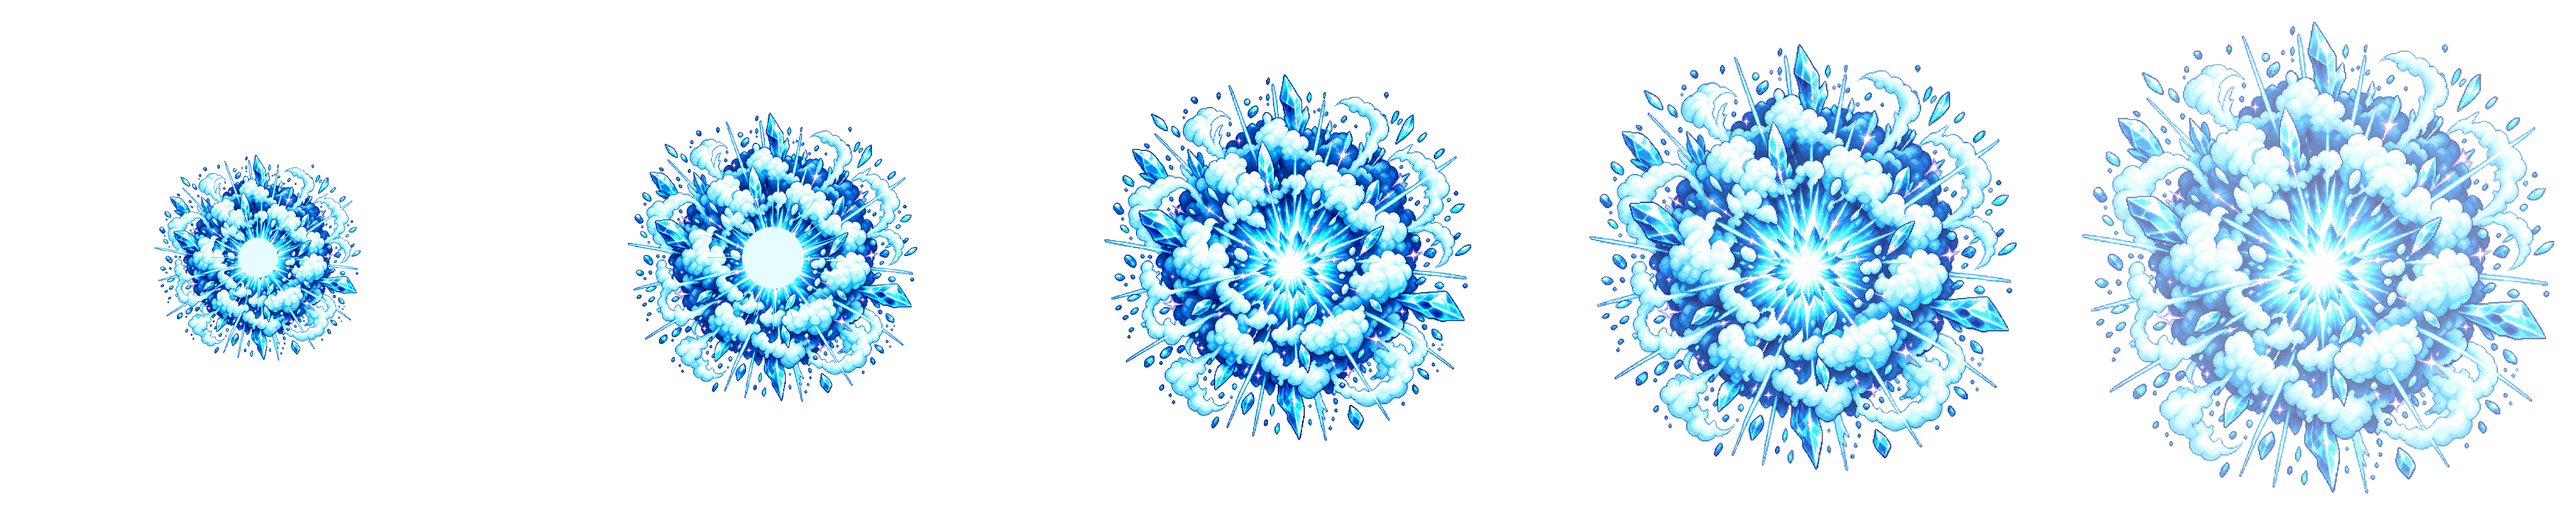
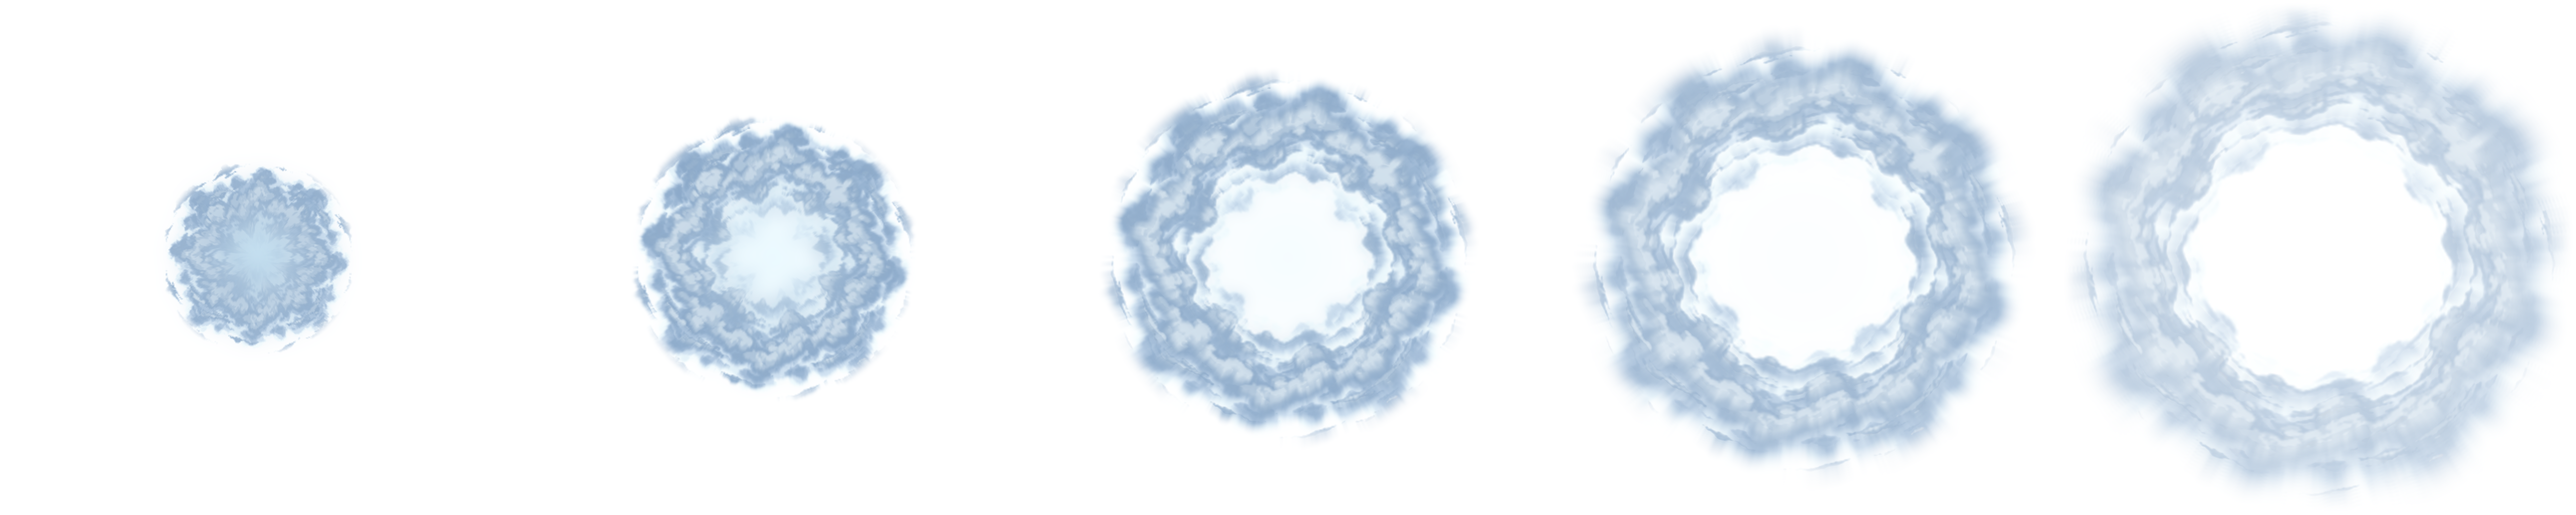
Frost planetfall: soft painted cloud decks (bright + dark, seamless both ways) and a painted punch-through burst built from one painting; sources and scripts in descent/src~/soft_redraw

diff --git a/Pause/Assets/Art/Worlds/Frost/descent/src~/soft_redraw/efin.py b/Pause/Assets/Art/Worlds/Frost/descent/src~/soft_redraw/efin.py
@@ -1,0 +1,99 @@
+# Frost planetfall entry: raw paintings -> install-size candidates.
+#  decks: 2048x1024 opaque RGBA, periodic in X and Y (wrap Repeat both ways), soft (true-res downsample + smooth upscale + blur)
+#  breakthrough: 5 cells of 1024x1024 (5120x1024), straight alpha, built from ONE painting by scripted expansion
+import sys, os, json
+sys.path.insert(0,'/private/tmp/claude-501/-Users-sina-Developer/50b8c9d7-da6c-44fe-8c92-736a84a1fed0/scratchpad/pl')
+import numpy as np
+from PIL import Image
+from scipy import ndimage
+from wxfin import arr, img, premul, unpremul, resize, smooth, ice
+from wxkey import key
+O='out2/bd_frost_entry_'
+def soft_rgb(rgb, W, H, nat, sigma):
+    h,w=rgb.shape[:2]
+    a=np.dstack([rgb,np.ones((h,w))])
+    a=resize(a,max(8,int(w*nat)),max(8,int(h*nat)),Image.BOX)        # down to the true drawing resolution
+    a=resize(a,W,H,Image.BICUBIC)                                      # smooth upscale
+    a=np.dstack([ndimage.gaussian_filter(a[...,c],sigma,mode='wrap') for c in range(4)])
+    return a[...,:3]
+def periodic(rgb, edge=.28):
+    """make X/Y periodic: blend with a half-rolled copy near the edges; variance-preserving so the blend zone keeps its contrast"""
+    def ax(a, axis):
+        n=a.shape[axis]; t=np.arange(n); d=np.minimum(t,n-1-t)/(n*edge)
+        w=smooth(0,1,d); w=w.reshape((-1,1,1) if axis==0 else (1,-1,1))
+        b=np.roll(a,n//2,axis)
+        m=a.mean((0,1),keepdims=True)
+        mix=w*a+(1-w)*b; k=np.sqrt(w*w+(1-w)**2)
+        return np.clip(m+(mix-m)/k,0,1)
+    return ax(ax(rgb,1),0)
+def ramp(rgb, stops, tint, red_cap=True):
+    L=(rgb*[.2126,.7152,.0722]).sum(-1); lo,hi=np.percentile(L,[1,99.7]); t=np.clip((L-lo)/max(hi-lo,1e-3),0,1)
+    xs=np.linspace(0,1,len(stops)); S=np.array(stops)/255
+    r=np.dstack([np.interp(t,xs,S[:,c]) for c in range(3)])
+    out=r*tint+rgb*(1-tint)
+    if red_cap: out[...,0]=np.minimum(out[...,0],out[...,2]*.92)
+    return np.clip(out,0,1)
+def level(rgb, target):   # mean of max(r,g,b) -> target (the Frost ceiling test compares against it), by gamma (bisection)
+    lo,hi=0.2,5.0; m=rgb.max(-1)[::3,::3]
+    for _ in range(40):
+        g=(lo*hi)**.5
+        if (m**g).mean()>target: lo=g
+        else: hi=g
+    return rgb**g
+BRIGHT=[(28,52,104),(58,98,158),(112,152,204),(176,206,236),(232,243,255)]
+DARK=[(10,16,34),(24,36,64),(46,62,98),(82,104,146),(150,176,214)]
+def deck(raw, out, stops, target, nat=.5, sigma=1.6, tint=.7, edge=.28):
+    rgb=arr(Image.open(raw))[...,:3]
+    rgb=soft_rgb(rgb,2048,1024,nat,sigma)
+    rgb=periodic(rgb,edge)
+    rgb=ramp(rgb,stops,tint); rgb=level(rgb,target)
+    rgb[...,0]=np.minimum(rgb[...,0],rgb[...,2])
+    a=np.dstack([rgb,np.ones(rgb.shape[:2])]); img(a).save(out)
+    return float(rgb.max(-1).mean())
+# ---------- breakthrough ----------
+def burst_src(raw, nat=.5, sigma=1.0, tint=.6, full=.8, floor=.05, R=500):
+    a=arr(key(Image.open(raw),full=full,floor=floor)); a=ice(a,tint); p=premul(a)
+    h,w=p.shape[:2]; p=resize(p,int(w*nat),int(h*nat),Image.BOX)
+    ys,xs=np.nonzero(p[...,3]>.02); cy,cx=(ys.min()+ys.max())/2,(xs.min()+xs.max())/2
+    rad=max(ys.max()-cy,cy-ys.min(),xs.max()-cx,cx-xs.min())+2
+    k=R/rad; S=int(round(2*rad*k))
+    y0,x0=int(cy-rad),int(cx-rad); pad=np.zeros((int(2*rad)+1,int(2*rad)+1,4))
+    sy0,sx0=max(0,y0),max(0,x0); sub=p[sy0:y0+pad.shape[0],sx0:x0+pad.shape[1]]
+    pad[sy0-y0:sy0-y0+sub.shape[0],sx0-x0:sx0-x0+sub.shape[1]]=sub
+    q=resize(pad,S,S,Image.BICUBIC); q=np.dstack([ndimage.gaussian_filter(q[...,c],sigma) for c in range(4)])
+    c=np.zeros((1024,1024,4)); o=(1024-S)//2; c[o:o+S,o:o+S]=q[:1024-o,:1024-o]
+    return np.clip(c,0,1)   # premultiplied, content radius ~R, centred
+SC=[.40,.58,.74,.87,.97]; HOLE=[0,0,0,0,0]; HK=[.40,.27,.15,.06,0]; FADE=[1,1,.95,.82,.6]; GLOW=[.9,.55,.25,.08,0]; SPIN=[0,3,6,8,10]
+def burst(raw, out, R=500, gamma=1.25, spin=1.0, round_=.84, pinch=True, zoom=0.0, **kw):
+    p=burst_src(raw,R=R,**kw)
+    H=W=1024; c=(H-1)/2; yy,xx=np.mgrid[0:H,0:W].astype(float); dy,dx=yy-c,xx-c
+    r=np.hypot(dy,dx); th=np.arctan2(dy,dx); frames=[]
+    for k in range(5):
+        s=SC[k]
+        # outward blow-out: outer material travels further (radial power warp), slight swirl increasing with radius
+        rn=np.clip(r/(R*s),0,4); rs=R*(HK[k]+(1-HK[k])*rn**gamma)
+        a=th-np.deg2rad(SPIN[k]*spin)*rn
+        sy,sx=c+rs*np.sin(a),c+rs*np.cos(a)
+        f=np.dstack([ndimage.map_coordinates(p[...,i],[sy,sx],order=1,mode='constant') for i in range(4)])
+        f*=(1-smooth(round_,1.0,rs/R))[...,None]   # round the painting's squarish outline
+        if pinch and HK[k]>0:   # soften the radial pinch at the centre
+            bl=np.dstack([ndimage.gaussian_filter(f[...,i],10+30*HK[k]) for i in range(4)]); m=np.exp(-(r/(R*s*(.25+HK[k])))**2)[...,None]; f=f*(1-m)+bl*m
+        hole=smooth(HOLE[k]*.6,HOLE[k]*1.2+1e-3,r/(R*s)) if HOLE[k]>0 else np.ones_like(r)
+        f*= (hole*FADE[k])[...,None]
+        g=np.exp(-(r/(R*s*.42))**2)*GLOW[k]   # bright cold core at the moment of the punch
+        glow=np.dstack([g*.86,g*.96,g*1.0,g])
+        if zoom>0 and k>0:   # radial smear outward: spray flung off the ring
+            acc=f.copy(); n=8; d=zoom*k/4
+            for j in range(1,n+1):
+                q=1-d*j/n; acc+=np.dstack([ndimage.map_coordinates(f[...,i],[c+dy*q,c+dx*q],order=1,mode='constant') for i in range(4)])*(1-j/(n+1))
+            acc/= 1+sum(1-j/(n+1) for j in range(1,n+1)); f=np.maximum(f*.75+acc*.25, acc)
+        f=f+glow*(1-f[...,3:])
+        f*=smooth(0,30,np.minimum.reduce([yy,xx,H-1-yy,W-1-xx]))[...,None]
+        frames.append(unpremul(np.clip(f,0,1)))
+    img(np.concatenate(frames,1)).save(out); return frames
+def gif(frames, out, bg=(40,58,92)):
+    ims=[]
+    for f in frames+[frames[-1]]*2:
+        b=Image.new('RGBA',(1024,1024),bg+(255,)); b.alpha_composite(img(f)); ims.append(b.resize((400,400),Image.LANCZOS).convert('P',palette=Image.ADAPTIVE))
+    ims.append(Image.new('RGBA',(400,400),bg+(255,)).convert('P'))
+    ims[0].save(out,save_all=True,append_images=ims[1:],duration=[83]*7+[400],loop=0)

diff --git a/Pause/Assets/Art/Worlds/Frost/descent/src~/soft_redraw/egen.py b/Pause/Assets/Art/Worlds/Frost/descent/src~/soft_redraw/egen.py
@@ -1,0 +1,43 @@
+# Frost planetfall entry clouds: raw paintings via generate-image-v2 (no style image). raw -> out2/bd_frost_entry_<item>/raw/<tag>.png
+import io, os, sys, base64, time, threading
+sys.path.insert(0,'/private/tmp/claude-501/-Users-sina-Developer/50b8c9d7-da6c-44fe-8c92-736a84a1fed0/scratchpad/pl')
+import plapi
+from PIL import Image
+from concurrent.futures import ThreadPoolExecutor
+LOG=threading.Lock(); COUNT='entry/count.txt'
+TAIL=' Soft painterly style, smooth gradients, soft feathered edges, no outlines, no hard pixel steps, fine detail, cold ice palette: pale blue-white highlights, steel blue shadows, no pink, no purple, no warm colours, no ground, no text, no UI.'
+TOP='Seen from very high altitude looking straight down: '
+BG=' Isolated in the centre on a plain flat solid very dark navy background (#0c1424) with an empty dark margin on every side; nothing touches the image edges.'
+def gen(item, tag, prompt, size):
+    d=f'out2/bd_frost_entry_{item}/raw'; os.makedirs(d,exist_ok=True)
+    if os.path.exists(f'{d}/{tag}.png'): return item, tag, 'skip', 0, ''
+    body={'description':prompt[:2000],'image_size':{'width':size[0],'height':size[1]},'no_background':False}
+    res={}
+    for a in range(12):
+        try:
+            r=plapi.call('POST','/generate-image-v2',body); res=plapi.wait(r.get('background_job_id') or r.get('id'))
+            if res['status']=='completed': break
+        except Exception as e:
+            res={'status':'failed','e':str(e)[:300]}
+            if '429' in str(e): time.sleep(25); continue
+            if a>=1: break
+        time.sleep(8)
+    n=0
+    for i,im in enumerate((res.get('last_response') or {}).get('images') or []):
+        b=(im.get('base64') if isinstance(im,dict) else im).split(',',1)[-1]
+        Image.open(io.BytesIO(base64.b64decode(b))).save(f'{d}/{tag}'+(f'_{i}' if i else '')+'.png'); n+=1
+    with LOG: open(COUNT,'a').write(f'{item} {tag} {res.get("status")} {n}\n')
+    return item, tag, res.get('status'), n, (str(res)[:300] if not n else '')
+P={
+ ('deck','r1_0'):(TOP+'a vast endless sea of soft billowing cumulus clouds filling the entire image from edge to edge, no sky, no horizon, no background. Bright pale blue-white rounded cloud tops lit from the top-left, soft steel-blue shading between the puffs, a few narrow winding gaps of deep cold blue between the cloud masses. Even coverage everywhere, no single focal point.',(688,344)),
+ ('deck','r1_1'):(TOP+'a thick bright layer of stratocumulus clouds covering the entire image from edge to edge, no sky, no horizon, no background: soft lumpy rounded cloud cells packed together, glowing pale white-blue tops, gentle steel-blue shadows in the folds, thin wind-swept wisps, uniform density across the whole picture.',(688,344)),
+ ('deck','r1_2'):(TOP+'a soft hazy sea of glowing clouds covering the entire image from edge to edge, no sky, no horizon, no background: large soft rounded cloud masses with misty blurred edges blending into each other, airbrushed smooth gradients, bright pale white-blue tops, soft cool blue shadows, wisps of thin mist drifting across, dreamy atmospheric depth, uniform coverage across the whole picture.',(688,344)),
+ ('deck_dark','r1_0'):(TOP+'a dark heavy blizzard storm cloud layer filling the entire image from edge to edge, no sky, no horizon, no background: dim slate-blue and deep navy rolling cloud masses, soft billows with faint pale ice-blue rims, wind-torn streaks of snow mist between them, dark shadowy gaps, low contrast, moody night, uniform coverage across the whole picture.',(688,344)),
+ ('breakthrough','r1_0'):(TOP+'the moment a ship bursts down through a cloud layer: a round blow-out of soft billowing cloud, a thick ring of puffy white-blue cloud and icy mist exploding outward in every direction around an empty clear dark hole in the centre, radial wisps and streamers of mist flung outward, the outer edge thinning into feathery translucent spray. Nothing inside the hole, no ship, no object.'+BG,(512,512)),
+}
+if __name__=='__main__':
+    want=sys.argv[1:]
+    jobs=[(it,t,p+TAIL,s) for (it,t),(p,s) in P.items() if not want or f'{it}/{t}' in want]
+    with ThreadPoolExecutor(3) as ex:
+        for r in ex.map(lambda j: gen(*j), jobs): print(*r, flush=True)
+    print('DONE')

diff --git a/Pause/Assets/Art/Worlds/Frost/descent/src~/soft_redraw/mk_decks.py b/Pause/Assets/Art/Worlds/Frost/descent/src~/soft_redraw/mk_decks.py
@@ -1,0 +1,11 @@
+import sys; sys.path.insert(0,'entry'); from efin import *
+R=O+'%s/raw/%s.png'
+D={'deck':[('deck','r1_2',dict(nat=.4,sigma=5.0)),('deck','r1_0',dict(nat=.4,sigma=5.0)),('deck','r1_0',dict(nat=.5,sigma=3.5))],
+   'deck_dark':[('deck_dark','r1_0',dict(nat=.4,sigma=5.0)),('deck_dark','r1_0',dict(nat=.5,sigma=3.5)),('deck','r1_0',dict(nat=.4,sigma=5.0))]}
+TGT={'deck':.85,'deck_dark':.41}; ST={'deck':BRIGHT,'deck_dark':DARK}
+for item,lst in D.items():
+    for i,(src,t,kw) in enumerate(lst):
+        out=f'{O}{item}/r1_{i}.png'; v=deck(R%(src,t),out,ST[item],TGT[item],**kw)
+        im=Image.open(out).convert('RGB'); T=Image.new('RGB',(2048,1024))   # 2x2 tile check, half size
+        s=im.resize((1024,512),Image.LANCZOS); [T.paste(s,(x,y)) for x in (0,1024) for y in (0,512)]
+        T.save(f'entry/tile_{item}_{i}.png'); print(item,i,src,t,'meanval %.3f'%v)

diff --git a/Pause/Assets/Art/Worlds/Frost/descent/src~/soft_redraw/mk_burst.py b/Pause/Assets/Art/Worlds/Frost/descent/src~/soft_redraw/mk_burst.py
@@ -1,0 +1,8 @@
+import sys; sys.path.insert(0,'entry'); from efin import *
+import efin
+os.makedirs('out2/bd_frost_entry_breakthrough',exist_ok=True)
+VAR={0:dict(raw='r1_0',nat=.5,sigma=1.2,gamma=1.25),1:dict(raw='r1_0',nat=.5,sigma=1.2,gamma=1.6,spin=2.2),2:dict(raw='r1_0',nat=.5,sigma=1.2,gamma=1.35,spin=1.5,round_=.9,zoom=.12)}
+for i,v in VAR.items():
+    v=dict(v); raw=O+'breakthrough/raw/'+v.pop('raw')+'.png'
+    fr=burst(raw,f'{O}breakthrough/r1_{i}.png',**v); gif(fr,f'entry/breakthrough_r1_{i}.gif')
+    S=Image.new('RGBA',(5120,1024),(40,58,92,255)); S.alpha_composite(Image.open(f'{O}breakthrough/r1_{i}.png')); S.resize((1600,320),Image.LANCZOS).save(f'entry/prev_burst_{i}.png')
